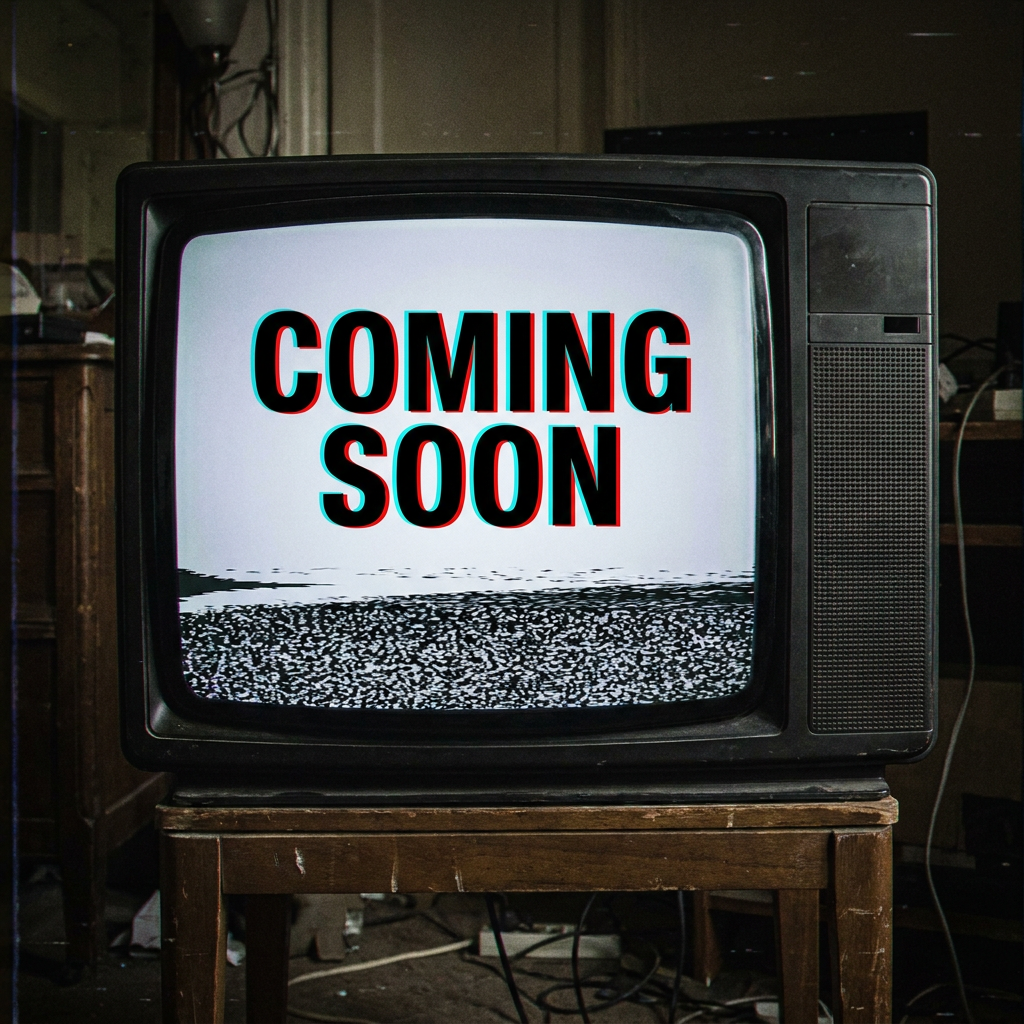
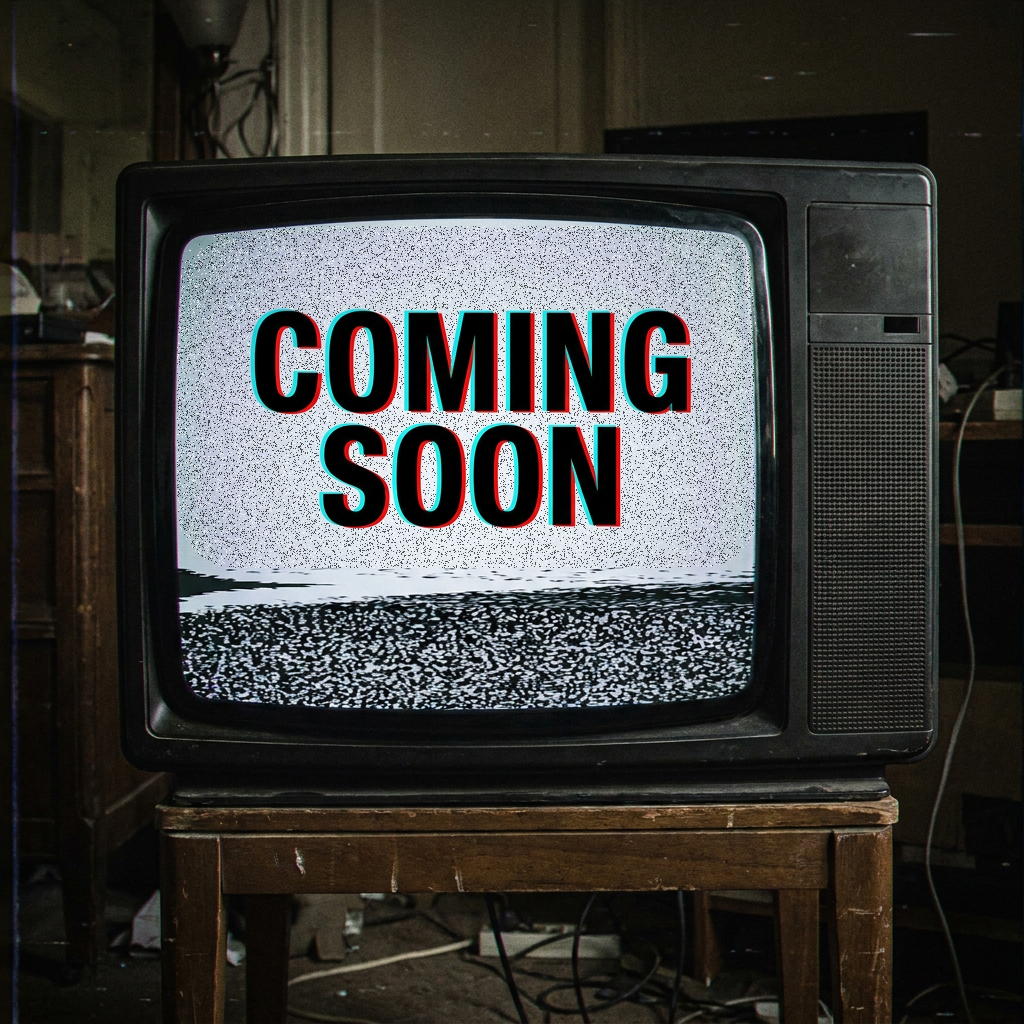
Update portfolio previews and images

Changed region(s): [[0.1562, 0.2188, 0.75, 0.5625], [0.4375, 0.5, 0.4688, 0.5312], [0.2812, 0.3438, 0.3125, 0.375]]

diff --git a/index.html b/index.html
@@ -24,7 +24,8 @@
   <section class="hero" id="home">
     <div class="hero__inner">
       <div class="zine-headline"><h1>Jules</h1></div>
-      <div class="zine-body">I build things, break things, and write down what I learn.</div>
+      <div class="zine-body">I look at things from different angles, keep thinking even when I’m supposed to be doing something else, and keep pushing until I understand it
+</div>
       <div class="hero__actions">
         <a href="#projects" class="btn btn--primary">See the work</a>
         <a href="#about" class="btn btn--ghost">More about me</a>
@@ -50,11 +51,11 @@
     <div class="story">
       <div class="story__text">
         <p class="story__label">The short version</p>
-        <h3>What I spend my time on</h3>
+        <h3>A journey of 560 characters</h3>
         <p>Placeholder copy for an alternating story block. Text on one side, image on the other — flips each time you add another one of these.</p>
       </div>
-      <a class="story__preview" href="images/mysterious.png" target="_blank" rel="noopener" aria-label="Open the full mysterious scene">
-        <img src="images/mysterious.png" alt="Mysterious scene">
+      <a class="story__preview" href="images/Seven%20seas.png" target="_blank" rel="noopener" aria-label="Open the full Seven Seas image">
+        <img src="images/Seven%20seas.png" alt="Seven Seas">
       </a>
     </div>
 
@@ -85,13 +86,17 @@
         <a href="#">See more</a>
       </div>
       <div class="card">
-        <img src="images/soon.png" alt="Project Two preview">
+        <div class="card__image-frame">
+          <img src="images/very%20soon.png" alt="Project Two preview">
+        </div>
         <h4>Project Two</h4>
         <p>One-line description of what it is and why it exists.</p>
         <a href="#">See more</a>
       </div>
       <div class="card">
-        <img src="images/soon.png" alt="Project Three preview">
+        <div class="card__image-frame">
+          <img src="images/very%20soon.png" alt="Project Three preview">
+        </div>
         <h4>Project Three</h4>
         <p>One-line description of what it is and why it exists.</p>
         <a href="#">See more</a>

diff --git a/css/styles.css b/css/styles.css
@@ -334,6 +334,25 @@
     aspect-ratio: 16 / 10;
     object-fit: cover;
     margin-bottom: 20px;
+    border-radius: 16px;
+  }
+
+  .card__image-frame {
+    aspect-ratio: 4 / 3;
+    margin-bottom: 20px;
+    overflow: hidden;
+    border-radius: 16px;
+  }
+
+  .card__image-frame img {
+    width: 100%;
+    height: 100%;
+    aspect-ratio: auto;
+    object-fit: cover;
+    object-position: center;
+    transform: scale(1.25);
+    transform-origin: 55% 20%;
+    margin-bottom: 0;
   }
 
   .card h4 {
